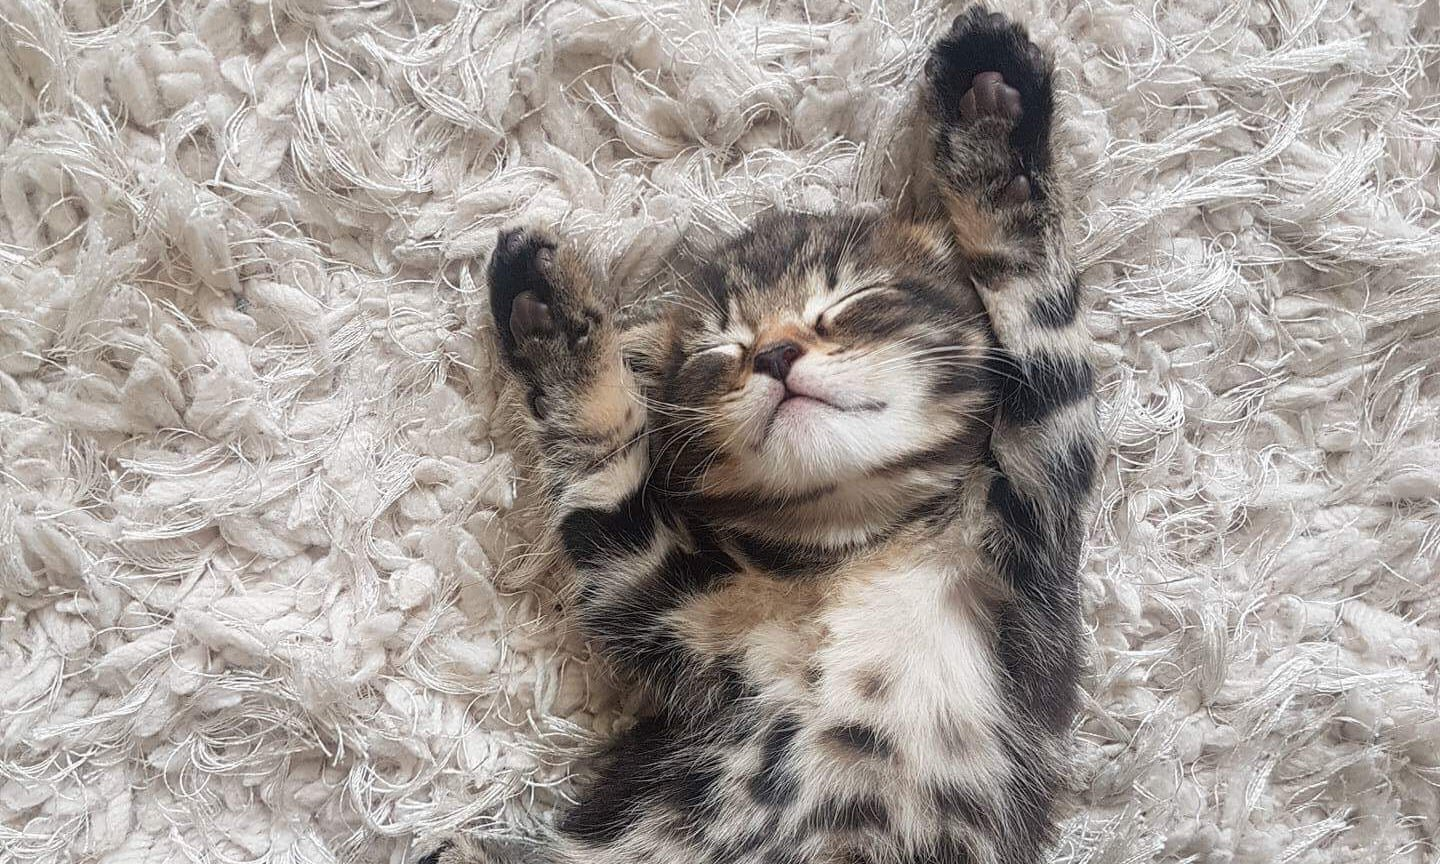
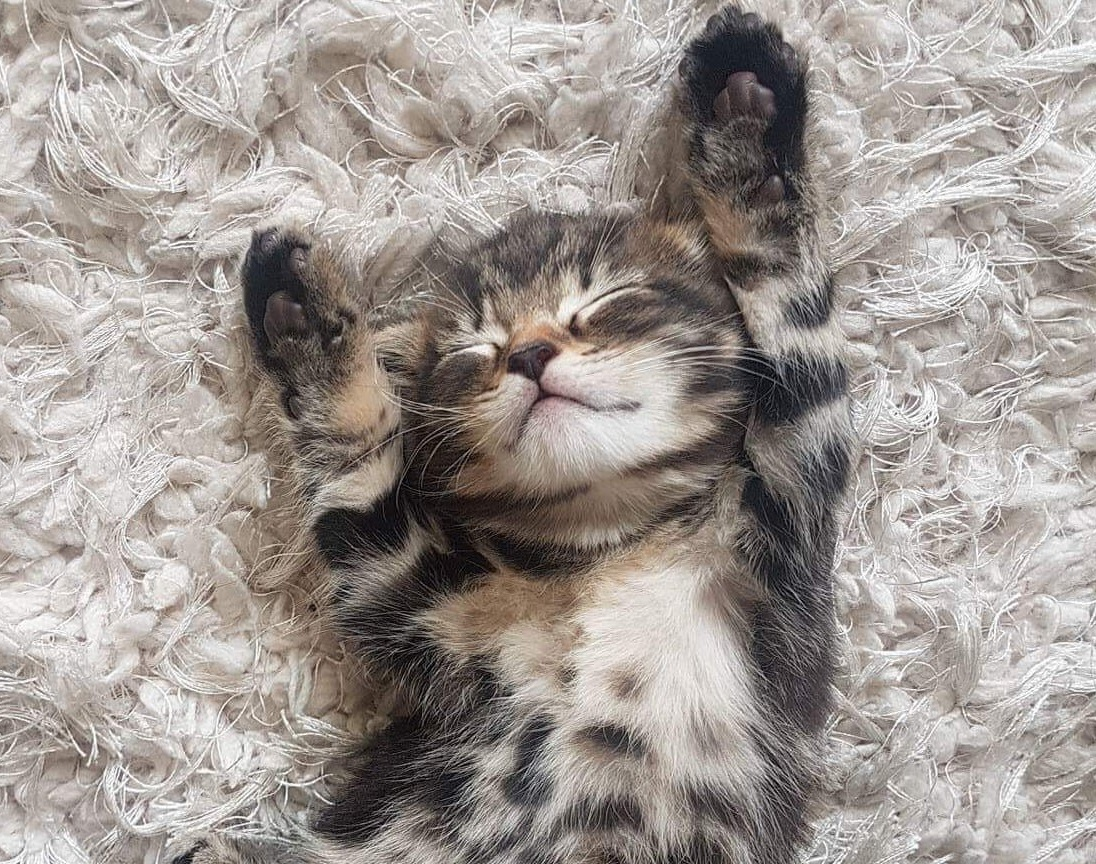
Commit change with fixed javascript

diff --git a/index.html b/index.html
@@ -15,24 +15,23 @@
             <nav class="hamnav">
                 <label id="burgerLabel" for="hamburger">&#9776;</label>
                 <input type="checkbox" id="hamburger"/>
-            <div class="main-nav">
-                <a href="secondary/services.html">services</a>
-                <a href="secondary/about.html">about</a>
-                <a href="secondary/contact.html">contact</a>
-                <a href="secondary/resources.html">resources</a>
-            </div>
+                <div class="main-nav">
+                    <a href="secondary/services.html">services</a>
+                    <a href="secondary/about.html">about</a>
+                    <a href="secondary/contact.html">contact</a>
+                    <a href="secondary/resources.html">resources</a>
+                </div>
             </nav>
         </header>
 
         <div class="banner">
-            <!-- <img class="logo" src="images\cuteKitten.jpg" alt="cute kittens"> -->
             <h1 class="headline">Don't let your financial life get you down!</h1>
-                <ul id="placeKitten">
-                    <li class="cat showing">Cat 1</li>
-                    <li class="cat">Cat 2</li>
-                    <li class="cat">Cat 3</li>
-                    <li class="cat">Cat 4</li>
-                    <li class="cat">Cat 5</li>
+                <ul id="slides">
+                    <li class="slide showing"><img src="images/cuteKitten.jpg"></li>
+                    <li class="slide"><img src="images/family.jpg"></li>
+                    <li class="slide"><img src="images/kids.jpg"></li>
+                    <li class="slide"><img src="images/kittens.jpg"></li>
+                    <li class="slide"><img src="images/lily_mom.jpg"></li>
                 </ul>
             <span class="tagline">OWENS BOOKKEEPING & TAX IS HERE TO HELP.</span>
         </div>
@@ -42,6 +41,7 @@
             <div class="col-1">
                 <h2>TAX PREPARATION</h2>
                 <p>
+                    <img src="images\lily_mom.jpg" alt="Lily and mommy">
                     <a class="callout" href="secondary\services.html">Find out more</a>
                 </p>
             </div>
@@ -50,6 +50,7 @@
             <div class="col-2">
                 <h2>BOOKKEEPING</h2>
                 <p>
+                    <img src="images/selfie.jpg" alt="selfie">
                     <a class="callout" href="secondary\services.html">Find out more</a>
                 </p>
             </div>
@@ -58,6 +59,7 @@
             <div class="col-3">
                 <h2>PAYROLL SERVICES</h2>
                 <p>
+                    <img src="images/cuteKitten.jpg" alt="cute kitty">
                     <a class="callout" href="secondary\services.html">Find out more</a>
                 </p>
             </div>
@@ -71,7 +73,7 @@
         </div>
     </footer>
 
-<script src="src/js/slider.js"></script>
+<script src="javascript\kitty.js"></script>
 
 </body>
 </html>

diff --git a/css/style2.css b/css/style2.css
@@ -1,5 +1,6 @@
 * {
     box-sizing: border-box;
+    background-color: aliceblue;
 }
 
 body {
@@ -20,12 +21,15 @@ a {
     margin: 0 5px;
     display: inline-block; 
     width: 100%; 
-    text-align: center; 
     }
     
     a:hover { 
     background: lightsalmon; 
     }
+
+.full-name {
+    display: inline-block;
+}
 
 
 /* ========= HEADER STYLES ========== */
@@ -33,9 +37,14 @@ a {
 .main-header { 
     max-width: 100%; 
     margin: 0 auto; 
-    padding: 0 3em 1.5em; 
-    } 
-    
+    padding: 10px 3em 1.5em; 
+    text-align: center;
+}
+
+.headline {
+    max-width: 75%;
+}
+
 .main-nav { 
     display: flex;
     border: 1px solid lightgray; 
@@ -72,11 +81,18 @@ a {
 
 .main-content {
     display: flex;
-    justify-content: space-between;
+    justify-content: center;
     align-self: center;
     margin: 1em;
     padding: 5px;
     
+}
+
+img {
+    display: flex;
+    max-height: 200px;
+    justify-content: center;
+    align-items: center;
 }
 
 .banner {
@@ -87,21 +103,23 @@ a {
 }
 
 
-/* ____PLACEKITTEN SLIDESHOW mechanics____ */
+/* SLIDESHOW mechanics & styles */
 
-#placeKitten {
+#slides {
     position: relative;
-    height: 200px;
+    height: 300px;
     padding: 0px;
     margin: 0px;
     list-style-type: none;
 }
 
-.cat {
+.slide {
+    display: flex;
+    justify-content: center;
     position: absolute;
     left: 0px;
     top: 0px;
-    width: 100%;
+    width: 50%;
     height: 100%;
     opacity: 0;
     z-index: 1;
@@ -117,30 +135,12 @@ a {
     z-index: 2;
 }
 
-/* ____PLACEKITTEN SLIDESHOW styles____ */
-
-.cat {
+.slide {
     font-size: 40px;
     padding: 40px;
     box-sizing: border-box;
-    background: #333;
-    color: #fff;
-}
-
-.cat:nth-of-type(1) {
-    background: red;
-}
-.cat:nth-of-type(2) {
-    background: orange;
-}
-.cat:nth-of-type(3) {
-    background: green;
-}
-.cat:nth-of-type(4) {
-    background: blue;
-}
-.cat:nth-of-type(5) {
-    background: purple;
+    /* background: #333; */
+    /* color: #fff; */
 }
 
 
@@ -194,7 +194,7 @@ a {
         padding: 10px;
       }
 
-      #hamitems a {
+    #hamitems a {
         box-sizing: border-box;
         display: flex;
         width: 100%;

diff --git a/javascript/kitty.js b/javascript/kitty.js
@@ -1,4 +1,4 @@
-var slides = document.querySelectorAll('#placeKitten .cat');
+var slides = document.querySelectorAll('#slides .slide');
 var currentSlide = 0;
 var slideInterval = setInterval(nextSlide,2000);
 
